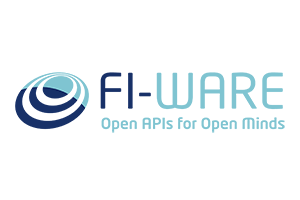
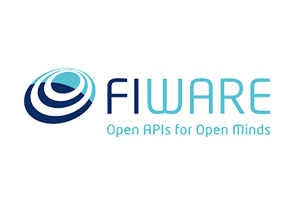
Update FIWARE project information

Changed region(s): [[0.03, 0.33, 0.96, 0.69]]

diff --git a/projects.html b/projects.html
@@ -160,18 +160,18 @@
 									</li>
 									<li class="span3">
 										<div class="thumbnail">
-											<a href="http://www.fi-ware.org/"><img
+											<a href="http://www.fiware.org/"><img
 												src="img/fiware.png" alt="7FP ICT FI-WARE"
-												title="7FP ICT FI-WARE" /></a>
+												title="7FP ICT FIWARE" /></a>
 											<div class="caption">
-												<h3>FI-WARE</h3>
+												<h3>FIWARE</h3>
 												<h5>(2013-today)</h5>
-												<p>7FP FI-WARE (Future Internet Software/Hardware) is an
+												<p>7FP FIWARE (Future Internet Software/Hardware) is an
 													innovative, open cloud-based infrastructure for
 													cost-effective creation and delivery of Future Internet
 													applications and services.</p>
 												<p>
-													<a href="http://www.fi-ware.org/" class="btn btn-primary">Read
+													<a href="https://www.fiware.org/" class="btn btn-primary">Read
 														More</a>
 												</p>
 											</div>
